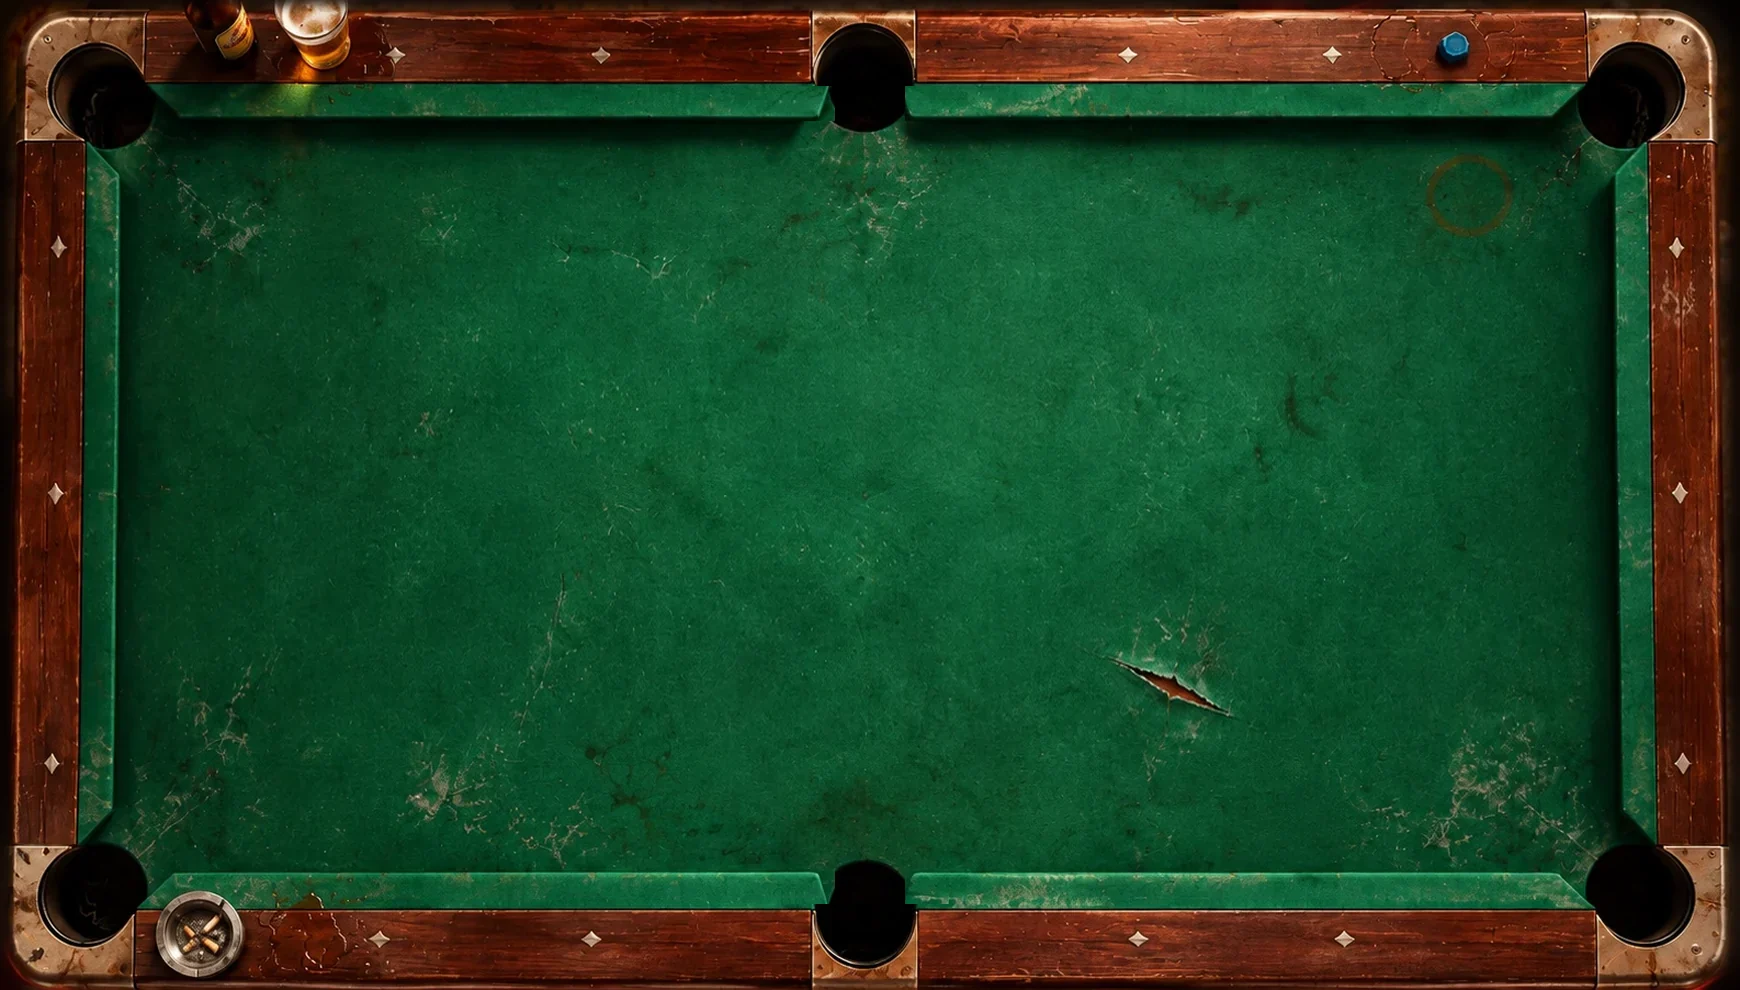
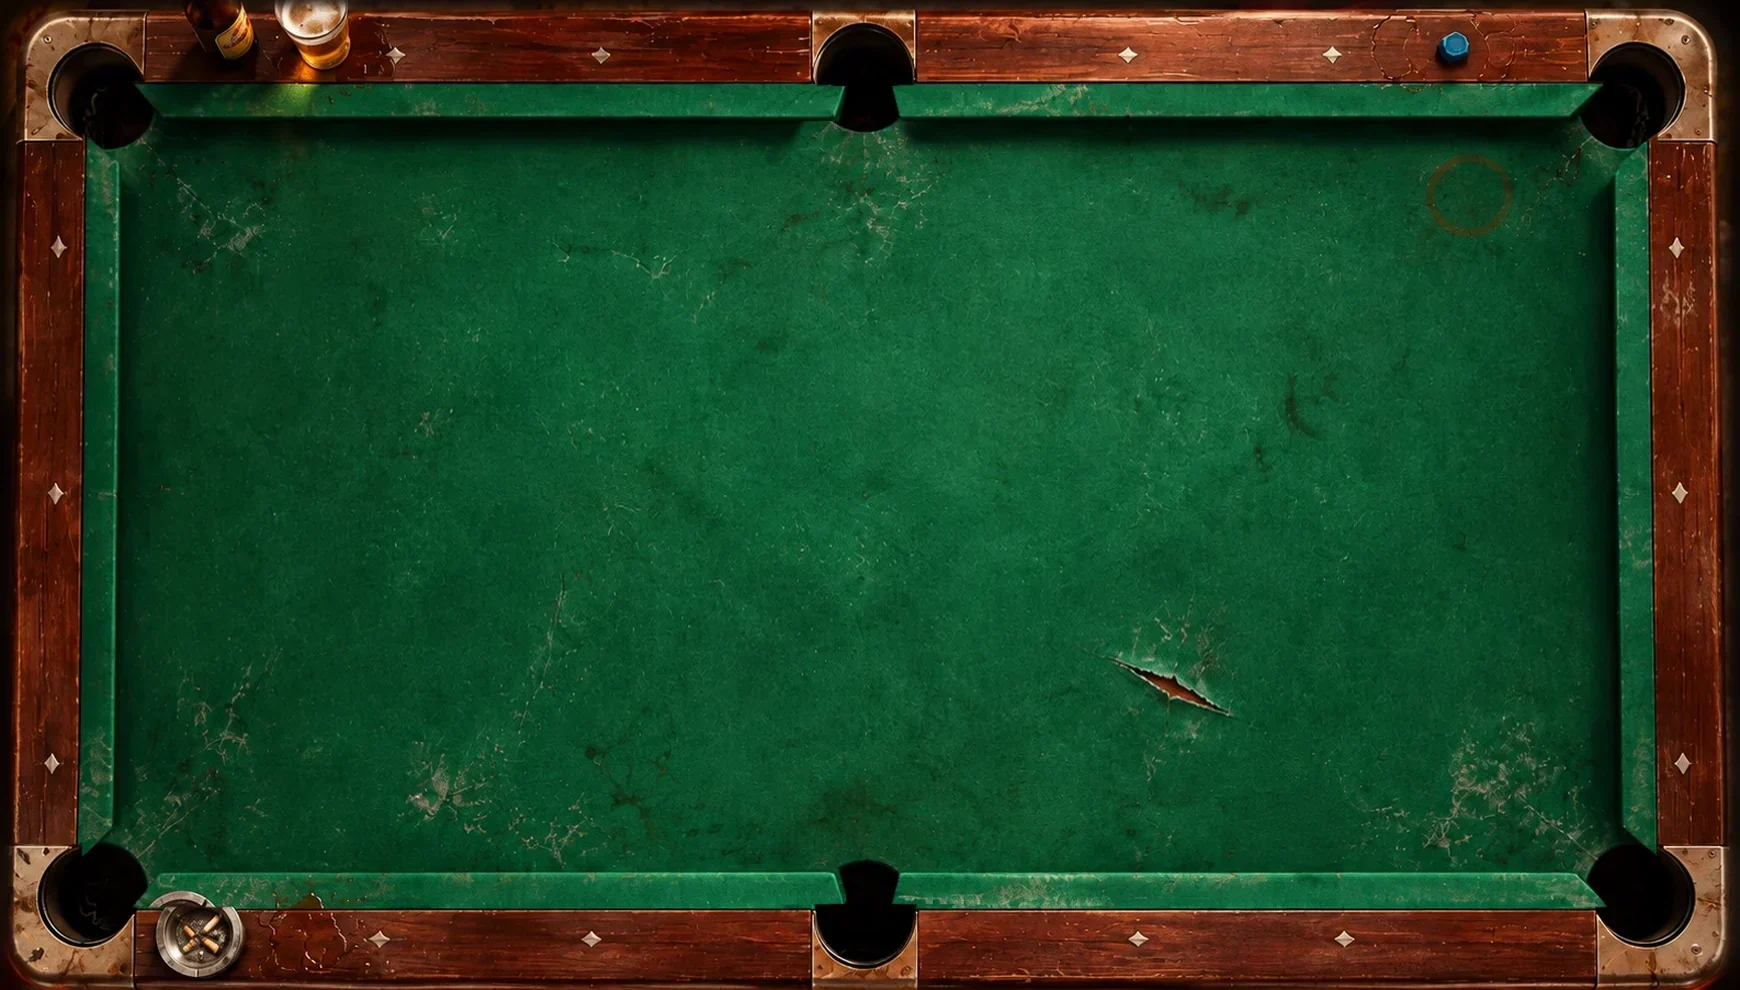
Sinuca: bocas de 1,5 bola (canto e meio), arte redesenhada e bots recalibrados
- Canto de 2,07 para 1,5 bola (a borracha acaba a 3,01 do canto) e meio de
  2,25 para 1,5 (2,13 do centro); as pontas das borrachas foram estendidas na
  arte só no formato delas (o buraco por baixo continua redondo).
- Bots: três pontos de mira por boca (meio e os dois lados) e erro de mão
  recalibrado para a mesa apertada (fácil 18%, médio 30%, Baianinho 47% das
  tacadas encaçapam).

diff --git a/server/escritorio-bots.js b/server/escritorio-bots.js
@@ -187,8 +187,11 @@ function poker(vista, nivel) {
 }
 
 // --- Sinuca: testa tacadas na física de verdade e escolhe a melhor ----------
-// Para onde mirar em cada caçapa: a boca, um pouco para dentro do buraco.
+// Para onde mirar em cada caçapa: o meio da boca e um pouco para cada lado dela
+// (com bocas de 1,5 bola, desde 28/10/2026, a bola que chega torta precisa de
+// outro ponto da boca para não bater no dente).
 const CACAPAS = [[-0.5, -0.5], [50, -1], [100.5, -0.5], [-0.5, 50.5], [50, 51], [100.5, 50.5]];
+const LADOS_DA_BOCA = { '-0.5,-0.5': [[1, -1], [-1, 1]], '100.5,-0.5': [[1, 1], [-1, -1]], '-0.5,50.5': [[1, 1], [-1, -1]], '100.5,50.5': [[1, -1], [-1, 1]], '50,-1': [[1, 0], [-1, 0]], '50,51': [[1, 0], [-1, 0]] };
 const GRUPOS = { lisas: [1, 2, 3, 4, 5, 6, 7], listradas: [9, 10, 11, 12, 13, 14, 15], pares: [2, 4, 6, 8, 10, 12, 14], impares: [3, 5, 7, 9, 11, 13, 15] };
 // A bola final: a 8 na bola 8, a 1 no par ou ímpar com as 15 bolas.
 const finalSinuca = (mesa) => (mesa.modo === 'parimpar' ? (mesa.bola1 ? 1 : null) : 8);
@@ -220,8 +223,8 @@ function sinuca(mesa, lado, nivel) {
  // Mira de bola fantasma: para cada bola alvo e cada caçapa.
  for (const n of alvosSinuca({ ...mesa, bolas }, lado)) {
   const o = bolas[n];
-  for (const [cx, cy] of CACAPAS) {
-   const dx = cx - o[0], dy = cy - o[1], d = Math.hypot(dx, dy) || 1;
+  for (const [px, py] of CACAPAS) for (const [ox, oy] of [[0, 0], ...(nivel === 'facil' ? [] : LADOS_DA_BOCA[`${px},${py}`])]) {
+   const cx = px + ox * 0.45, cy = py + oy * 0.45, dx = cx - o[0], dy = cy - o[1], d = Math.hypot(dx, dy) || 1;
    const gx = o[0] - (dx / d) * 2 * R, gy = o[1] - (dy / d) * 2 * R;
    candidatas.push(Math.atan2(gy - b[1], gx - b[0]));
   }
@@ -229,14 +232,16 @@ function sinuca(mesa, lado, nivel) {
  const extras = nivel === 'lendario' ? 24 : nivel === 'medio' ? 8 : 2;
  for (let i = 0; i < extras; i++) candidatas.push(Math.random() * Math.PI * 2);
  const forcas = nivel === 'lendario' ? [0.35, 0.55, 0.8] : nivel === 'medio' ? [0.45, 0.7] : [0.6];
- const limite = nivel === 'lendario' ? 90 : nivel === 'medio' ? 30 : 6;
+ const limite = nivel === 'lendario' ? 160 : nivel === 'medio' ? 60 : 6;
  let melhor = { nota: -Infinity, angulo: candidatas[0] || 0, forca: 0.6 };
  for (const angulo of candidatas.slice(0, limite)) for (const forca of forcas) {
   const r = simular(bolas, angulo, forca, 0, R, 0), nota = notaTacada(r, { ...mesa, bolas }, lado) + Math.random();
   if (nota > melhor.nota) melhor = { nota, angulo, forca };
  }
  // O erro da mão: o lendário quase não erra (o Baianinho), o fácil erra muito.
- const erroMao = { facil: 0.06, medio: 0.02, lendario: 0.003 }[nivel];
+ // Com bocas de 1,5 bola um corte pede uns 0,3° (28/10/2026): o médio erra até
+ // 0,5° e o fácil até 1,4°.
+ const erroMao = { facil: 0.025, medio: 0.009, lendario: 0.003 }[nivel];
  const angulo = melhor.angulo + (Math.random() * 2 - 1) * erroMao;
  return { tipo: 'tacar', angulo: Math.round(angulo * 10000) / 10000, forca: melhor.forca, efeito: 0, ...pedidoBase };
 }

diff --git a/server/escritorio-sinuca.js b/server/escritorio-sinuca.js
@@ -31,16 +31,15 @@ const G = 9.81 / METROS_POR_UNIDADE;
 // "dente" da caçapa, da boca até o fundo, atrás da linha da tabela): a bola
 // que chega torta bate no dente e volta, ou entra quicando nele. A bola cai
 // quando o centro passa por cima do buraco.
-// - canto: boca a 4,17 do canto (2 bolas de largura, como mesa oficial); dente
-//   até 2,12 ao longo e 2,41 para trás; buraco de raio 3,58 com o centro 1,37
-//   para fora nas duas direções;
-// - meio: na arte a boca tinha 2,9 bolas (larga demais para simulador); em
-//   28/10/2026 foi para a medida oficial, 2,25 bolas (boca a 3,2 do centro), e
-//   as pontas das borrachas foram redesenhadas na arte para bater. Dente até
-//   2,54 do centro e 2,19 para trás; buraco de raio 3,36 com o centro 2,92
-//   atrás da tabela.
-export const CANTO = { boca: 4.17, fundo: [2.12, 2.41], buraco: [1.37, 3.58] };
-export const MEIO = { boca: 3.2, fundo: [2.54, 2.19], buraco: [2.92, 3.36] };
+// Bocas de 1,5 bola, as duas (Paulo, 28/10/2026: "as bocas tá fácil demais
+// matar... no máximo 1,5 bola"; na arte eram 2,07 no canto e 2,9 no meio, e
+// as pontas das borrachas foram redesenhadas nela para bater):
+// - canto: a borracha acaba a 3,01 do canto; dente até 0,96 ao longo e 2,41
+//   para trás; buraco de raio 3,58 com o centro 1,37 para fora nas duas direções;
+// - meio: a borracha acaba a 2,13 do centro; dente até 1,47 do centro e 2,19
+//   para trás; buraco de raio 3,36 com o centro 2,92 atrás da tabela.
+export const CANTO = { boca: 3.01, fundo: [0.96, 2.41], buraco: [1.37, 3.58] };
+export const MEIO = { boca: 2.13, fundo: [1.47, 2.19], buraco: [2.92, 3.36] };
 // As paredes (segmentos [x1, y1, x2, y2]: o nariz das seis borrachas e os doze
 // dentes) e os seis buracos [x, y, raio].
 export function geometria() {

diff --git a/vybe-escritorio-sinuca.js b/vybe-escritorio-sinuca.js
@@ -400,10 +400,10 @@ function sinucaLinha(g, a, b, cor, traco, largura = 2) {
   g.setLineDash([]);
 }
 // Caçapas medidas na arte da mesa, as mesmas da física (CANTO e MEIO em
-// server/escritorio-sinuca.js): a borracha acaba a 4,17 do canto e a 3,2 do
-// meio (medida oficial; as pontas foram redesenhadas na arte); o buraco do canto tem raio 3,58 com o centro 1,37 para fora nas duas
+// server/escritorio-sinuca.js): a borracha acaba a 3,01 do canto e a 2,13 do
+// meio (bocas de 1,5 bola; as pontas foram redesenhadas na arte); o buraco do canto tem raio 3,58 com o centro 1,37 para fora nas duas
 // direções, e o do meio raio 3,36 com o centro 2,92 atrás da tabela.
-const SINUCA_BOCA_CANTO = 4.17, SINUCA_BOCA_MEIO = 3.2;
+const SINUCA_BOCA_CANTO = 3.01, SINUCA_BOCA_MEIO = 2.13;
 function sinucaBuracos() {
   const L = SINUCA_L, A = SINUCA_A, c = 1.37, cr = 3.58, f = 2.92, mr = 3.36;
   return [[-c, -c, cr], [50, -f, mr], [L + c, -c, cr], [-c, A + c, cr], [50, A + f, mr], [L + c, A + c, cr]].map(([x, y, r]) => ({ x, y, r }));
